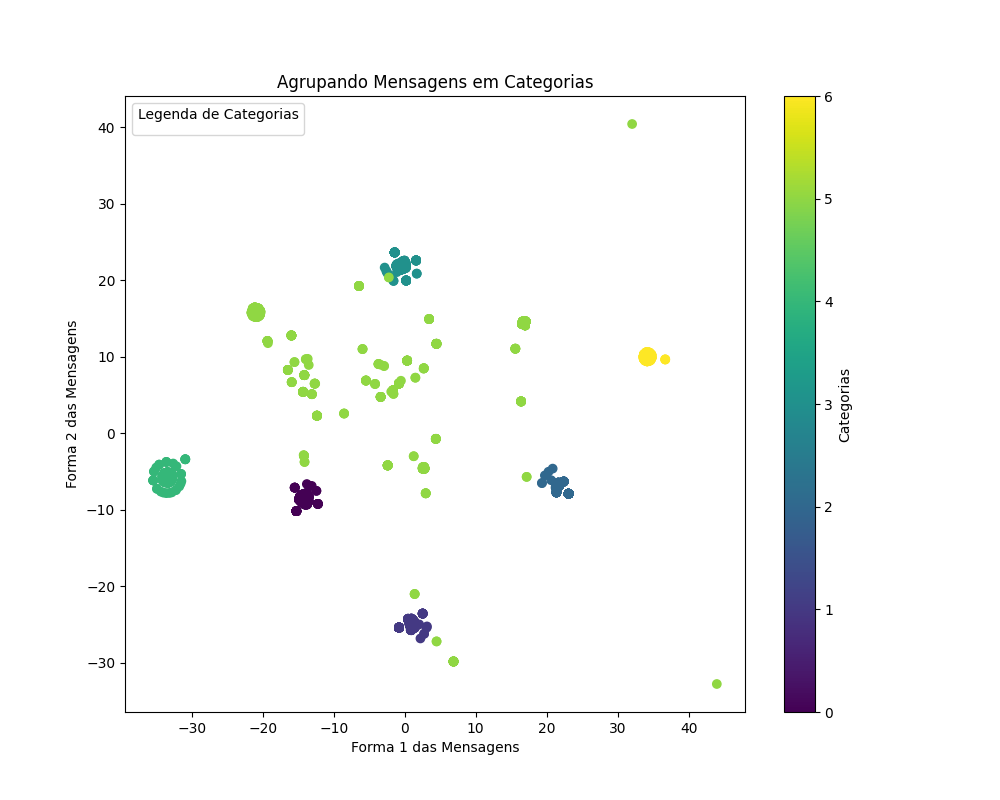
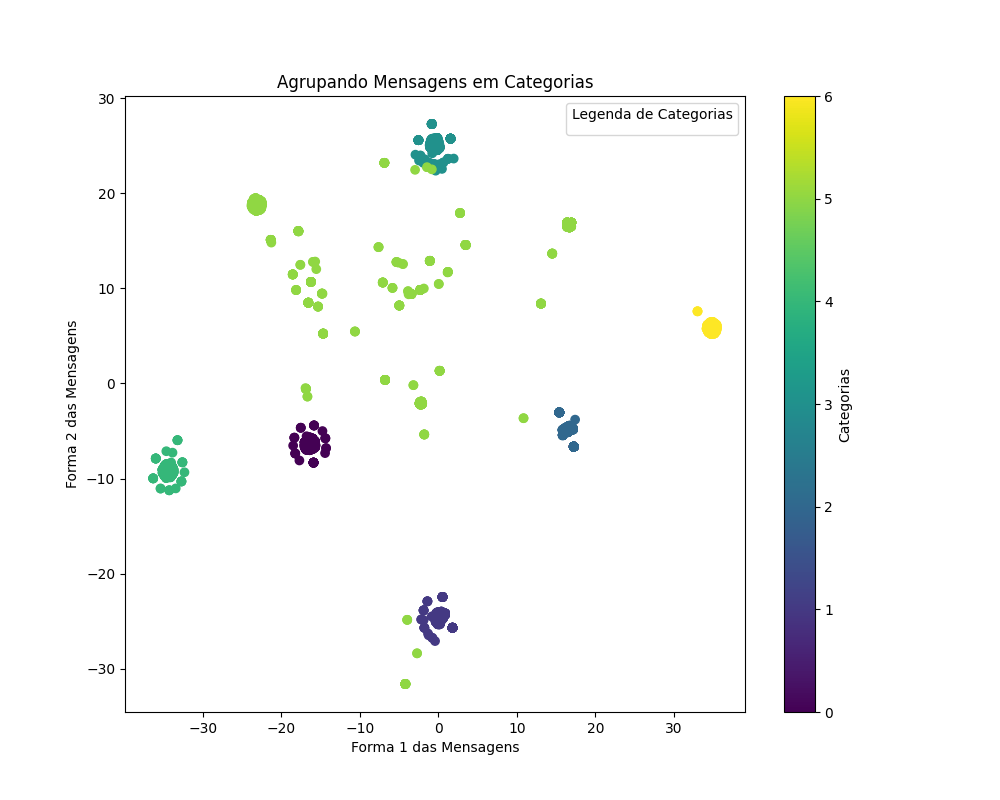
Aplicação Chuva de Palavras

diff --git a/filtro.py b/filtro.py
@@ -7,88 +7,113 @@ from nltk.corpus import stopwords
 from nltk.tokenize import word_tokenize
 import string
 import nltk
+from wordcloud import WordCloud
 
 # Certifique-se de ter os pacotes NLTK e as stopwords em português baixados.
-nltk.download('punkt')
-nltk.download('stopwords')
-stop_words = set(stopwords.words('portuguese'))
+nltk.download("punkt")
+nltk.download("stopwords")
+stop_words = set(stopwords.words("portuguese"))
+
 
 # Função para pré-processamento de texto
 def preprocess_text(text):
-     # Transforma o texto em Maiuscula
+    # Transforma o texto em Maiuscula
     text = text.upper()
     print("Texto em maiúsculas:", text)
-    
+
     # Remove pontuações e caracteres especiais
-    text = ''.join([char for char in text if char not in string.punctuation])
+    text = "".join([char for char in text if char not in string.punctuation])
     print("Texto sem pontuações:", text)
-    
+
     # Remove números
-    text = ''.join([char for char in text if not char.isdigit()])
+    text = "".join([char for char in text if not char.isdigit()])
     print("Texto sem números:", text)
-   
+
     # Tokenização e remoção de stop words
-    tokens = word_tokenize(text, language='portuguese')
+    tokens = word_tokenize(text, language="portuguese")
     filtered_tokens = [word for word in tokens if word not in stop_words]
     print("Tokens após remoção de stop words:", filtered_tokens)
     # Reconstroi o texto após o pré-processamento
-    text = ' '.join(filtered_tokens)
+    text = " ".join(filtered_tokens)
     print("Texto após reconstituição:", text)
     return text
 
+
 # Carregue o arquivo CSV com colunas 'Assunto' e 'Problema' (substitua 'nome_do_arquivo.csv' pelo nome do seu arquivo CSV)
-df = pd.read_csv('Dados Consumidor Reclamações Mercado Livre.csv', sep=';')
+df = pd.read_csv("Dados Consumidor Reclamações Mercado Livre.csv", sep=";")
 
 # Renomeie as colunas para 'descricao' e 'reclamacao' (opcional)
-df.columns = ['assunto', 'problema']
+df.columns = ["assunto", "problema"]
 
 # Visualize o DataFrame
 print(df)
 
 # Aplica o pré-processamento à coluna 'problema'
-df['problema_tratado'] = df['problema'].apply(preprocess_text)
+df["problema_tratado"] = df["problema"].apply(preprocess_text)
 
 # Cria o vetor TF-IDF
 tfidf_vectorizer = TfidfVectorizer()
-tfidf_matrix = tfidf_vectorizer.fit_transform(df['problema_tratado'])
+tfidf_matrix = tfidf_vectorizer.fit_transform(df["problema_tratado"])
 
 # Encontre o número ideal de clusters usando o método do cotovelo
 wcss = []
 max_clusters = 69
 for i in range(1, max_clusters + 1):
-    kmeans = KMeans(n_clusters=i, init='k-means++', max_iter=300, n_init=10, random_state=0)
+    kmeans = KMeans(
+        n_clusters=i, init="k-means++", max_iter=300, n_init=10, random_state=0
+    )
     kmeans.fit(tfidf_matrix)
     wcss.append(kmeans.inertia_)
 
 # Plot do gráfico do Método do Cotovelo
 plt.figure(figsize=(10, 5))
-plt.plot(range(1, max_clusters + 1), wcss, marker='o', linestyle='-', color='b')
-plt.title('Número Ideal de Categorias para Mensagens')
-plt.xlabel('Número de Categorias (Clusters)')
-plt.ylabel('Variabilidade Dentro dos Clusters')
+plt.plot(range(1, max_clusters + 1), wcss, marker="o", linestyle="-", color="b")
+plt.title("Número Ideal de Categorias para Mensagens")
+plt.xlabel("Número de Categorias (Clusters)")
+plt.ylabel("Variabilidade Dentro dos Clusters")
 plt.grid()
-plt.savefig('Figure_1.png')  # Salva o primeiro gráfico como Figure_1.png
+plt.savefig("Figure_1.png")  # Salva o primeiro gráfico como Figure_1.png
 plt.show()
 
 # Executa o K-Means com o número ideal de clusters
 num_clusters = 7
-kmeans = KMeans(n_clusters=num_clusters, init='k-means++', max_iter=300, n_init=10, random_state=0)
-df['cluster'] = kmeans.fit_predict(tfidf_matrix)
+kmeans = KMeans(
+    n_clusters=num_clusters, init="k-means++", max_iter=300, n_init=10, random_state=0
+)
+df["cluster"] = kmeans.fit_predict(tfidf_matrix)
 
 # Reduz a dimensionalidade usando t-SNE
-tsne = TSNE(n_components=2, random_state=0, init='random')
+tsne = TSNE(n_components=2, random_state=0, init="random")
 tsne_result = tsne.fit_transform(tfidf_matrix)
 
 # Cria um DataFrame para o t-SNE
-df_tsne = pd.DataFrame({'tsne_x': tsne_result[:, 0], 'tsne_y': tsne_result[:, 1], 'cluster': df['cluster']})
+df_tsne = pd.DataFrame(
+    {"tsne_x": tsne_result[:, 0], "tsne_y": tsne_result[:, 1], "cluster": df["cluster"]}
+)
 
 # Plota o gráfico t-SNE com Clusters
 plt.figure(figsize=(10, 8))
-scatter = plt.scatter(df_tsne['tsne_x'], df_tsne['tsne_y'], c=df_tsne['cluster'], cmap='viridis')
-plt.title('Agrupando Mensagens em Categorias')
-plt.xlabel('Forma 1 das Mensagens')
-plt.ylabel('Forma 2 das Mensagens')
-plt.colorbar(scatter, label='Categorias')
-plt.legend(title='Legenda de Categorias')
-plt.savefig('Figure_2.png')  # Salva o segundo gráfico como Figure_2.png
+scatter = plt.scatter(
+    df_tsne["tsne_x"], df_tsne["tsne_y"], c=df_tsne["cluster"], cmap="viridis"
+)
+plt.title("Agrupando Mensagens em Categorias")
+plt.xlabel("Forma 1 das Mensagens")
+plt.ylabel("Forma 2 das Mensagens")
+plt.colorbar(scatter, label="Categorias")
+plt.legend(title="Legenda de Categorias")
+plt.savefig("Figure_2.png")  # Salva o segundo gráfico como Figure_2.png
+plt.show()
+
+# Combine todo o texto de todos os clusters
+combined_text = " ".join(df["problema_tratado"])
+
+# Crie uma única nuvem de palavras com o texto combinado
+wordcloud = WordCloud(background_color="white").generate(combined_text)
+
+# Exiba a nuvem de palavras
+plt.figure(figsize=(6, 4))
+plt.imshow(wordcloud, interpolation="bilinear")
+plt.title("Palavras Mais Ditas nas Reclamações")
+plt.savefig("wordcloud.png", bbox_inches="tight")
+plt.axis("off")
 plt.show()
